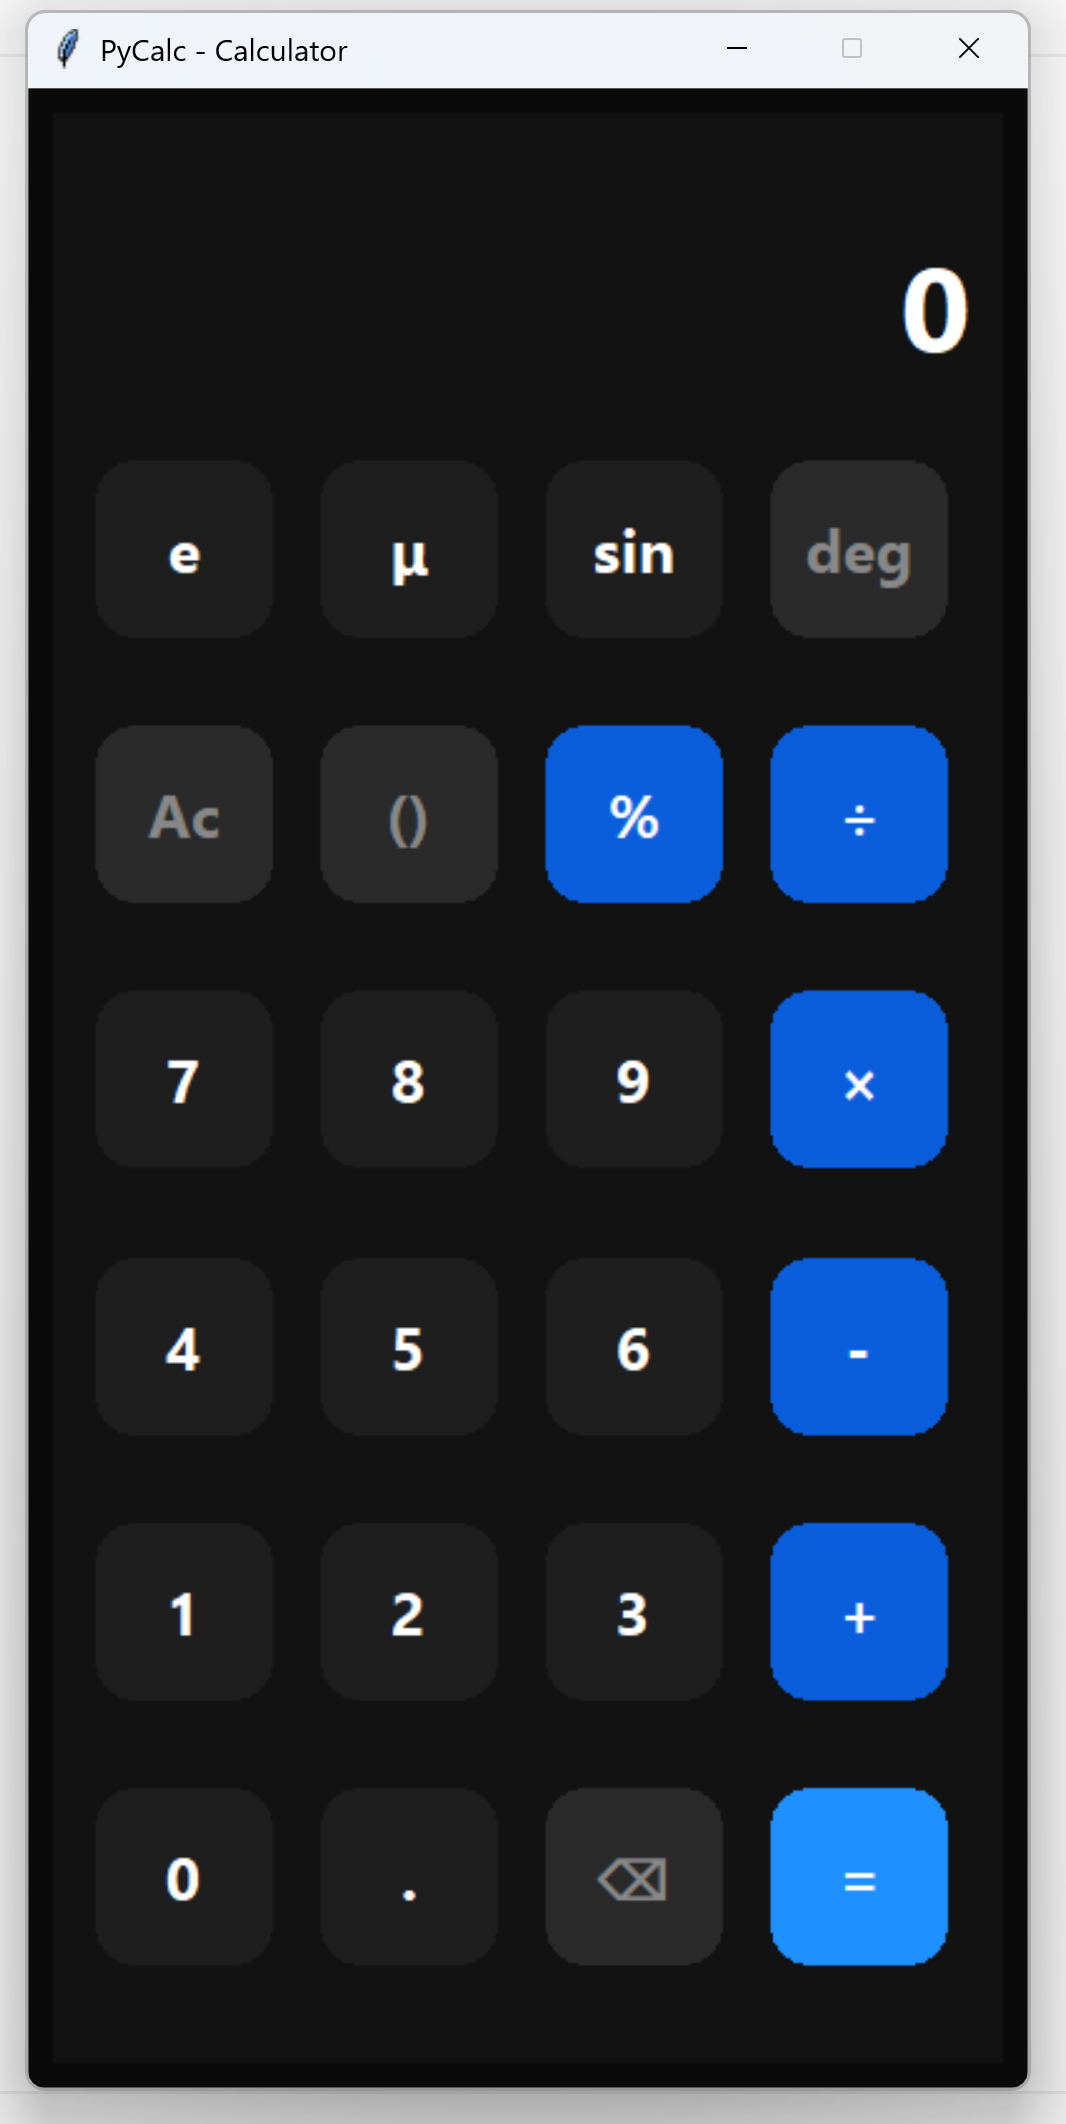
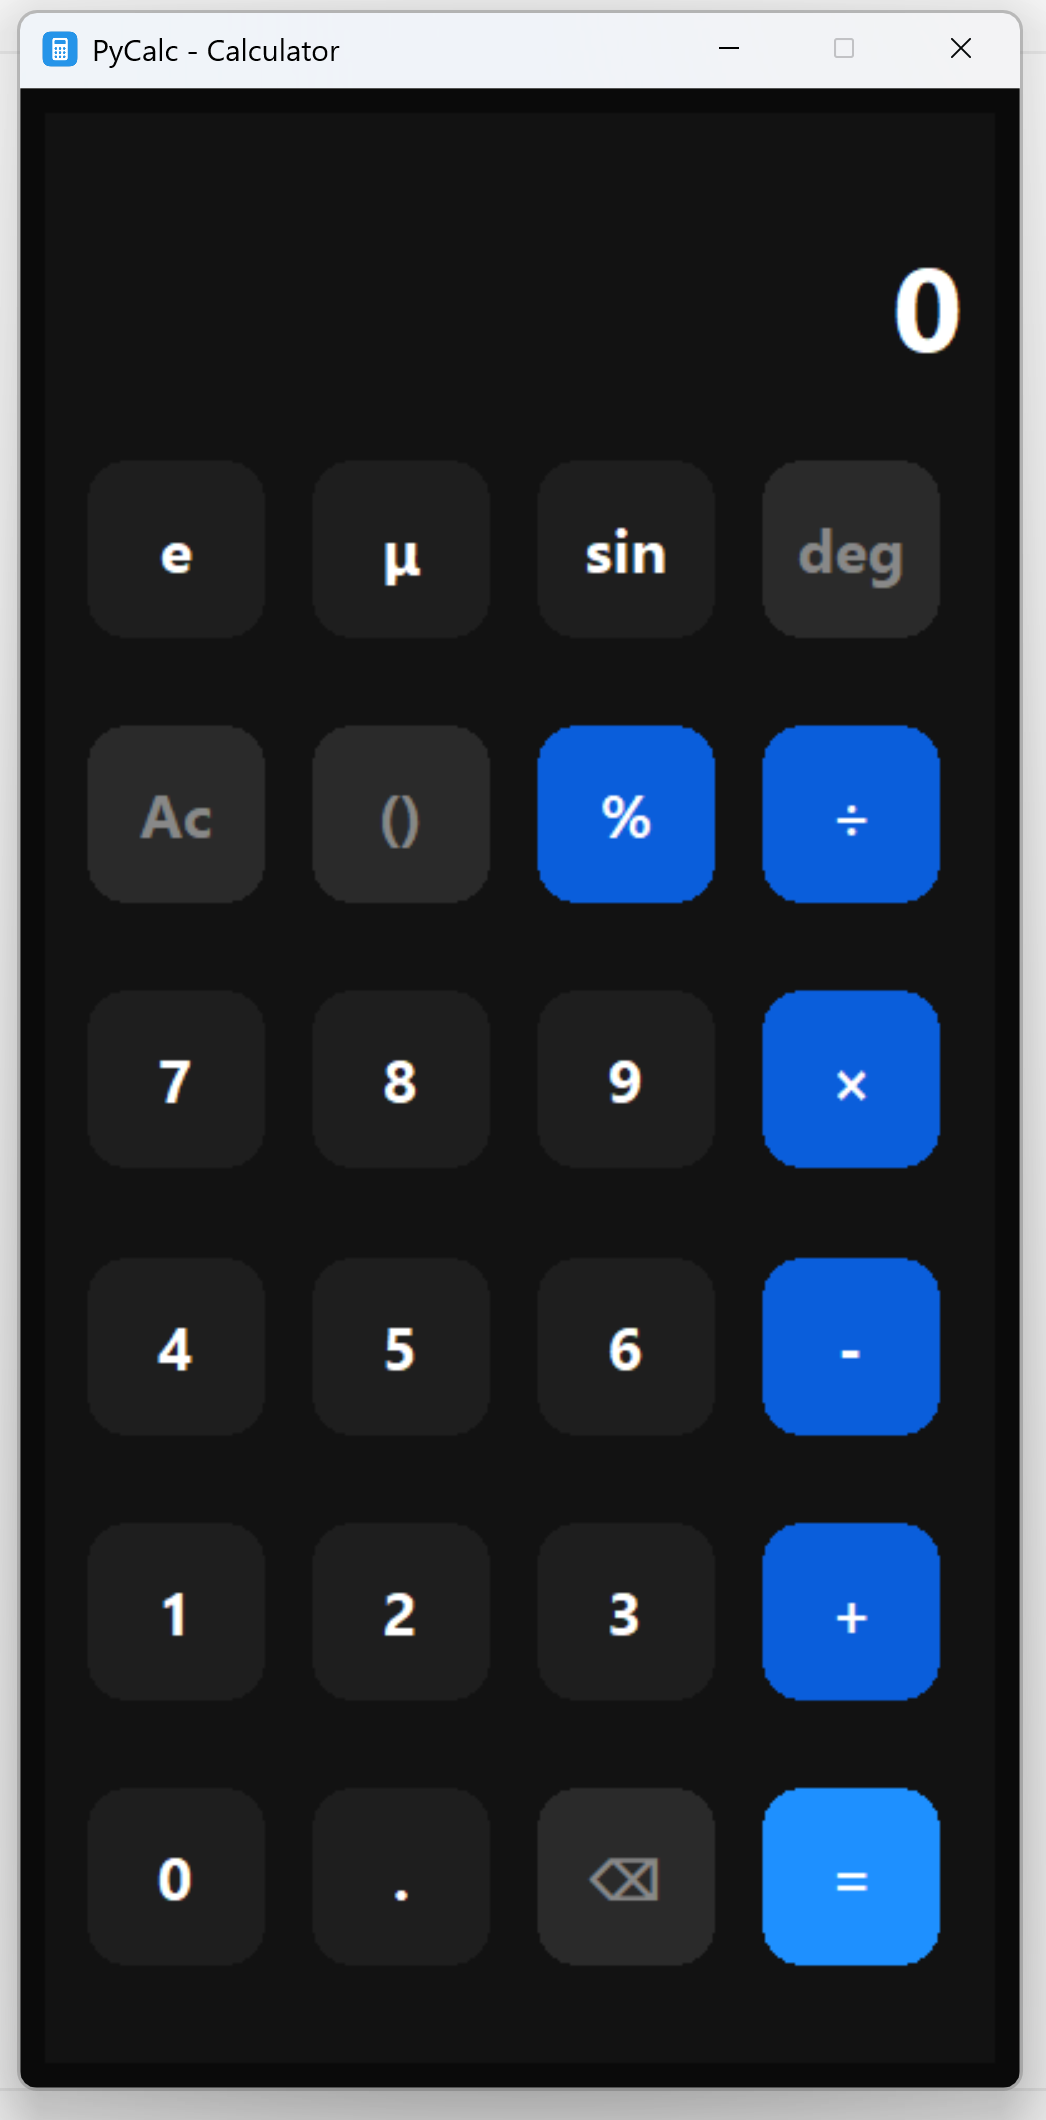
Refactor code structure for improved readability and maintainability

diff --git a/src/pycalc/__main__.py b/src/pycalc/__main__.py
@@ -3,6 +3,7 @@ import tkinter as tk
 
 def main():
     root = tk.Tk()
+    root.iconbitmap(r'd:/Projects/pycalc/screenshots/icons/pycalc.ico')
     app = CalculatorGUI(root)
     root.mainloop()
 
